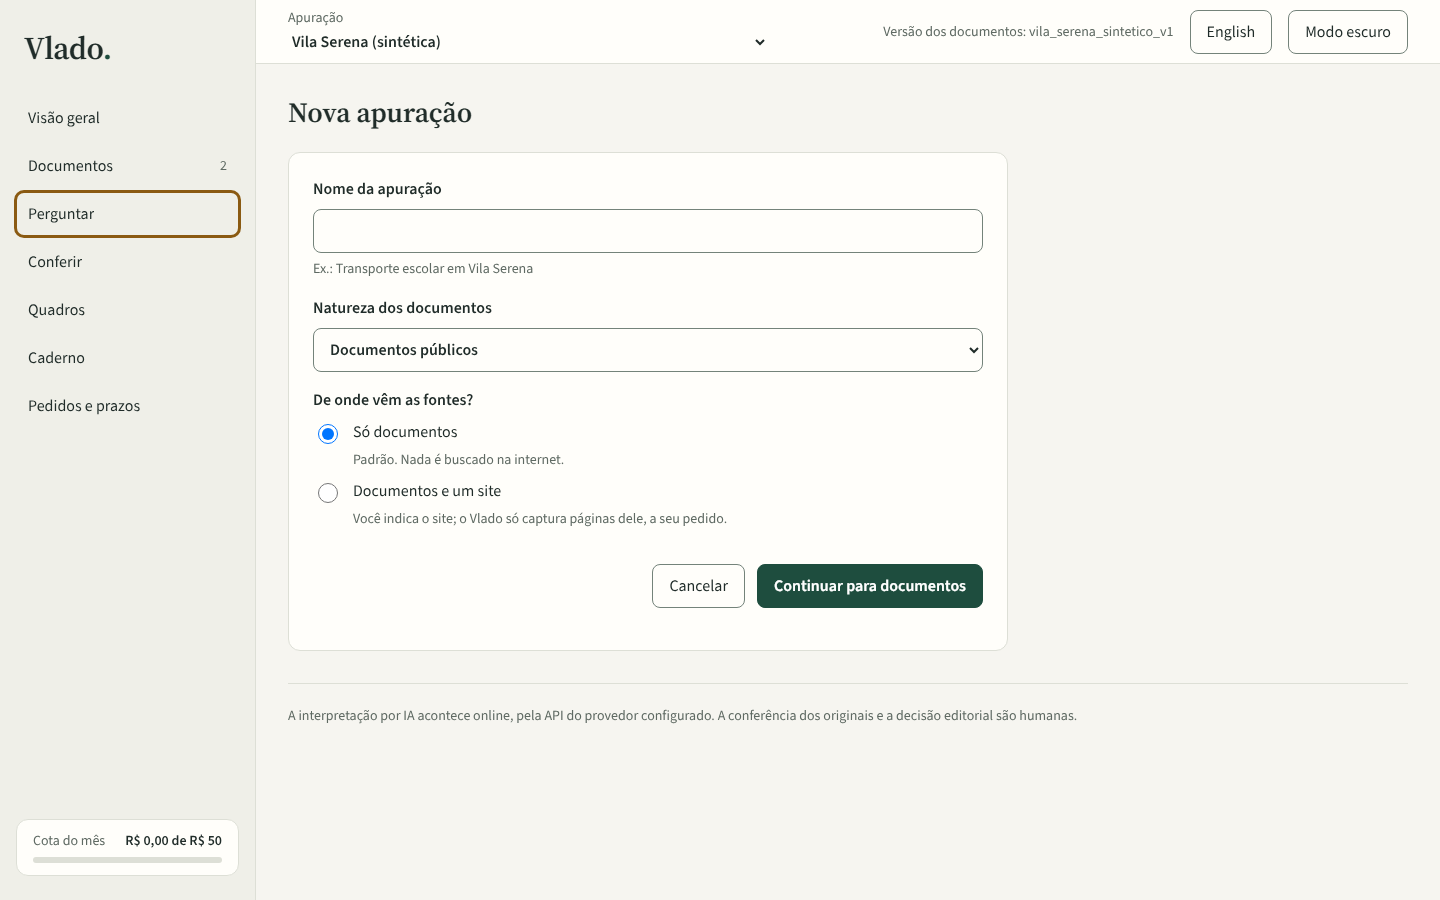
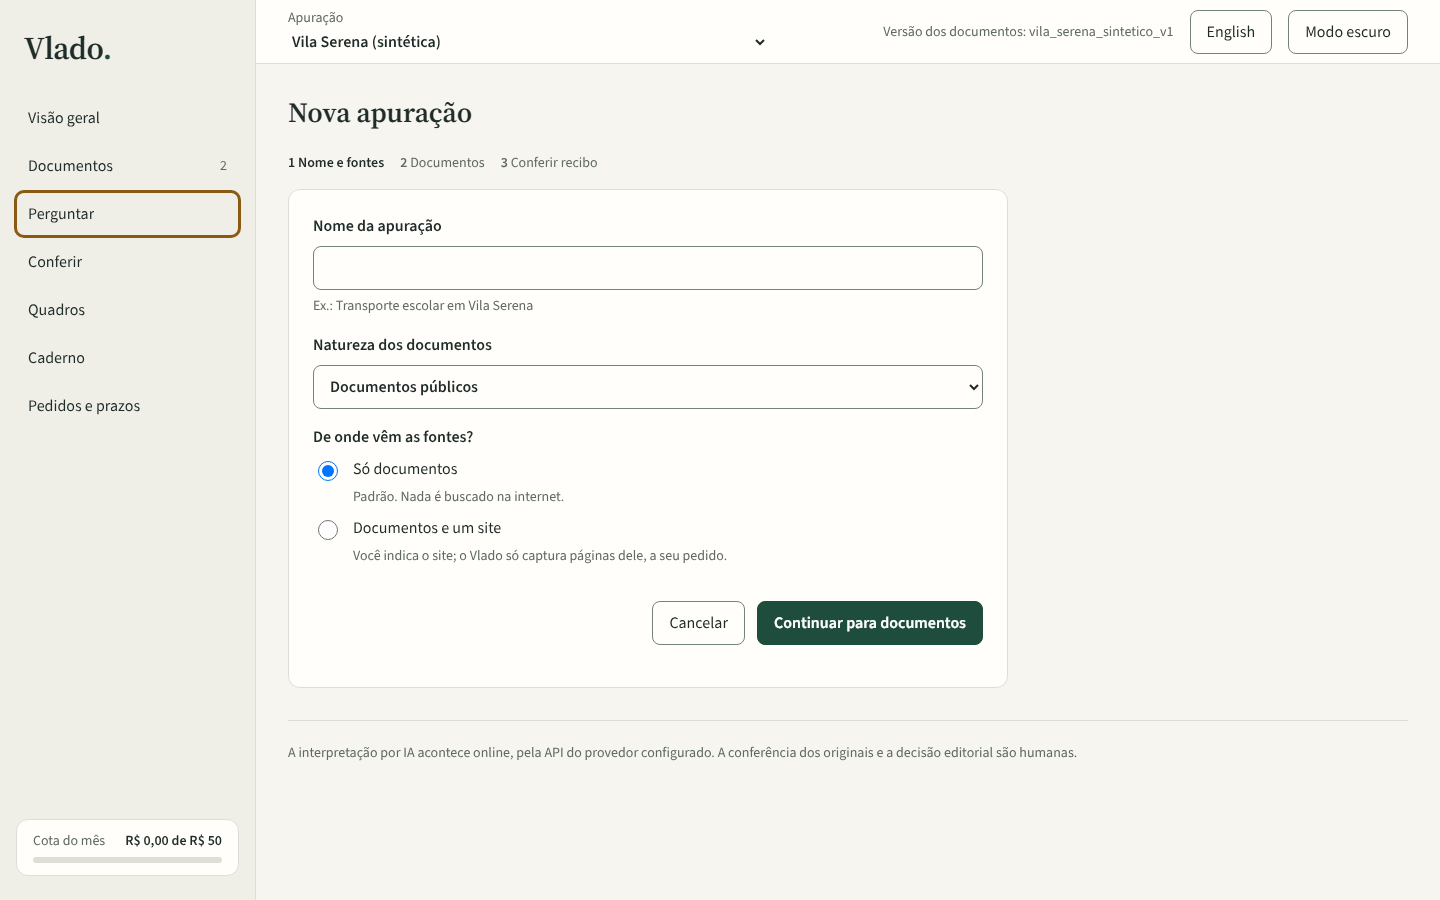
test: regera as nova__* sobre o 06d478e e acrescenta o reflow a 320 px (WCAG 1.4.10) às extras (Q3, Q4 da Coruja)
Regeradas sobre a frontend-o3 em 06d478e, que desenha a linha de etapas em ?area=nova (o Traço recusara as 8 sem ela):
- 8 nova__* da linha de base e 6 nova__* das extras (paisagem, 430 px e 200%);
- 10 foco_mesa_*, o anel de foco na própria tela nova, que a linha de etapas também muda.
Pendências do LEIA-ME resolvidas (Q3).

Q4: cenário reflow320 nas extras (320 x 640 px em CSS, escala 1): 14 telas x 2 temas = 28 referências novas, o conjunto vai a 112 (19,2 MB).
Mesma regra: nenhuma rolagem horizontal (manifesto vazio nas 112, inclusive a 320 px). Testes leves atualizados (cenários e 112 nomes).

Conferido por captura independente: extras 112 de 112 dentro da tolerância, 0 rolagem horizontal nova; base nova e focos 18 de 18. 32 testes OK.
A aceitação visual é do Traço.

diff --git a/testes/regressao_visual_extras.py b/testes/regressao_visual_extras.py
@@ -1,4 +1,4 @@
-"""Capturas adicionais da regressão visual (Onda 3, R6 do Traço): celular deitado, 430 px e texto a 200%.
+"""Capturas adicionais da regressão visual (Onda 3, R6 do Traço): celular deitado, 430 px, texto a 200% e reflow a 320 px.
 
     python testes/regressao_visual_extras.py gerar      # refaz testes/referencias_visuais/<plataforma>_extras/
     python testes/regressao_visual_extras.py comparar   # captura de novo e compara; relatório em tmp/regressao_visual_extras/
@@ -13,6 +13,9 @@ Cenários (nome da captura: `<tela>__<cenário>__<tema>.png`):
   zoom200   página a 200%: janela de 1280 px com a página ampliada a 200%, ou seja, 640 px de largura em CSS com fator de escala 2 (a imagem sai
             com 1280 px). É o "redimensionar texto até 200%" da WCAG 1.4.4 como o navegador o faz. A CSP da Mesa não deixa injetar CSS para ampliar só a fonte,
             e esta é a forma que a pessoa de verdade usa (Ctrl +).
+
+  reflow320 320 x 640 px: o reflow da WCAG 1.4.10 (o conteúdo cabe em 320 px de largura em CSS, equivalente a 1280 px a 400%, sem rolagem em duas direções).
+            A regra é a mesma dos outros cenários: nenhuma rolagem horizontal.
 
 Rolagem horizontal (a página mais larga que a janela) NÃO reprova a geração: entra no manifesto (`rolagem_horizontal`) e é avisada. No `comparar`, só
 reprova rolagem horizontal que a referência não tinha, além das diferenças de imagem e de qualquer pedido a endereço externo.
@@ -38,6 +41,7 @@ CENARIOS = {
     'paisagem': {'viewport': {'width': 812, 'height': 375}, 'escala': 1},
     '430': {'viewport': {'width': 430, 'height': 932}, 'escala': 1},
     'zoom200': {'viewport': {'width': 640, 'height': 450}, 'escala': 2},
+    'reflow320': {'viewport': {'width': 320, 'height': 640}, 'escala': 1},
 }
 TELAS = tuple(rv.TELAS) + tuple(rv.VARIANTES) + (rv.TELA_ENTRAR,)
 
@@ -261,7 +265,7 @@ def main(argv=None) -> int:
     parser = argparse.ArgumentParser(description=__doc__, formatter_class=argparse.RawDescriptionHelpFormatter)
     parser.add_argument('comando', choices=('gerar', 'comparar'))
     parser.add_argument('--telas', help='lista separada por vírgula (padrão: as 14 da linha de base, sem os focos)')
-    parser.add_argument('--cenarios', help='paisagem,430,zoom200 (padrão: os três)')
+    parser.add_argument('--cenarios', help='paisagem,430,zoom200,reflow320 (padrão: os quatro)')
     parser.add_argument('--temas', help='claro,escuro (padrão: ambos)')
     parser.add_argument('--python-servidor', help='Python do projeto (padrão: .venv do projeto)')
     parser.add_argument('--relatorio', help='pasta do relatório de `comparar` (padrão: tmp/regressao_visual_extras)')

diff --git a/testes/test_regressao_visual_extras.py b/testes/test_regressao_visual_extras.py
@@ -12,9 +12,12 @@ import regressao_visual_extras as ex
 
 class ExtrasTest(unittest.TestCase):
     def test_cenarios_pedidos_pelo_design(self):
-        self.assertEqual(set(ex.CENARIOS), {'paisagem', '430', 'zoom200'})
+        self.assertEqual(set(ex.CENARIOS), {'paisagem', '430', 'zoom200', 'reflow320'})
         self.assertEqual(ex.CENARIOS['paisagem']['viewport'], {'width': 812, 'height': 375})
         self.assertEqual(ex.CENARIOS['430']['viewport']['width'], 430)
+        # reflow (WCAG 1.4.10): 320 px de largura em CSS, sem ampliar
+        self.assertEqual(ex.CENARIOS['reflow320']['viewport']['width'], 320)
+        self.assertEqual(ex.CENARIOS['reflow320']['escala'], 1)
         # 200%: 640 px de largura em CSS com fator 2 = a janela de 1280 px ampliada a 200%
         self.assertEqual(ex.CENARIOS['zoom200']['viewport']['width'] * ex.CENARIOS['zoom200']['escala'], 1280)
 
@@ -24,9 +27,9 @@ class ExtrasTest(unittest.TestCase):
         self.assertIn('nova', ex.TELAS)
         self.assertNotIn('cadastro', ex.TELAS)
 
-    def test_84_capturas_no_conjunto_completo(self):
+    def test_112_capturas_no_conjunto_completo(self):
         nomes = ex.nomes_esperados(ex.TELAS, list(ex.CENARIOS), list(rv.TEMAS))
-        self.assertEqual(len(nomes), 14 * 3 * 2)
+        self.assertEqual(len(nomes), 14 * 4 * 2)
         self.assertEqual(len(set(nomes)), len(nomes))
         self.assertIn('inicio__paisagem__claro', nomes)
 
@@ -42,7 +45,7 @@ class ExtrasTest(unittest.TestCase):
 
 
 class ReferenciasExtrasTest(unittest.TestCase):
-    """As 84 referências versionadas conferem com o manifesto, têm a largura do cenário e nenhuma é uma página em branco."""
+    """As 112 referências versionadas conferem com o manifesto, têm a largura do cenário e nenhuma é uma página em branco."""
 
     def setUp(self):
         self.pasta = ex.pasta_extras()

diff --git a/testes/referencias_visuais/LEIA-ME.md b/testes/referencias_visuais/LEIA-ME.md
@@ -139,9 +139,9 @@ não a cada commit, e usar recorte (`--telas`, `--larguras`, `--temas`) para tro
 - A área `apuracao` registra no console um bloqueio da CSP (`style-src 'self'`): estilo inline aplicado por script.
   Fica no manifesto (`erros_do_navegador`); `comparar` avisa se aparecer erro novo.
 
-## Capturas adicionais (R6 do Traço): paisagem, 430 px e texto a 200%
+## Capturas adicionais (R6 do Traço): paisagem, 430 px, texto a 200% e reflow a 320 px
 
-`python testes/regressao_visual_extras.py gerar` refaz, e `comparar` confere, 84 capturas em `windows_extras/` (14 telas, sem os focos, nos
+`python testes/regressao_visual_extras.py gerar` refaz, e `comparar` confere, 112 capturas em `windows_extras/` (14 telas, sem os focos, nos
 dois temas; nome `<tela>__<cenário>__<tema>.png`). São referências ADICIONAIS: as 130 de cima não mudam. Cenários:
 
 | Cenário | Janela | Para quê |
@@ -149,15 +149,14 @@ dois temas; nome `<tela>__<cenário>__<tema>.png`). São referências ADICIONAIS
 | `paisagem` | 812 x 375 px | celular deitado: cabeçalho, gaveta e diálogos com altura curta |
 | `430` | 430 x 932 px | celular grande em pé, entre os 375 e os 768 da linha de base |
 | `zoom200` | 640 px em CSS, escala 2 (imagem de 1280 px) | a janela de 1280 px com a página ampliada a 200% (WCAG 1.4.4) |
+| `reflow320` | 320 x 640 px | o reflow da WCAG 1.4.10: o conteúdo cabe em 320 px de largura em CSS, sem rolagem horizontal |
 
 O `zoom200` é a página ampliada, não só a fonte: a CSP da Mesa não deixa injetar CSS para aumentar o texto sozinho, e Ctrl + é como a pessoa de verdade
-faz. Rolagem horizontal não impede gerar: fica no manifesto (`rolagem_horizontal`, hoje vazio nas 84) e `comparar` reprova a que for nova, além de diferença
+faz. Rolagem horizontal não impede gerar: fica no manifesto (`rolagem_horizontal`, hoje vazio nas 112) e `comparar` reprova a que for nova, além de diferença
 de imagem e de pedido a endereço externo. O Vditor do Caderno registra um aviso de CSP (estilo em linha) no manifesto, como na linha de base. Os testes sem
 navegador estão em `test_regressao_visual_extras.py`.
 
-## Pendentes (não valem como aceitas)
+## Pendentes
 
-As 14 capturas `nova__*` ficam **pendentes** até serem regeradas: 8 na linha de base (`nova__375|768|1024|1440__claro|escuro`) e 6 nas extras
-(`nova__paisagem|430|zoom200__claro|escuro`). O Traço as recusou porque `?area=nova` abre o passo 1 sem a linha de etapas ("1 Nome e fontes, 2 Documentos,
-3 Conferir recibo"). **Dono: Lume** (a correção é da tela). **Motivo: linha de etapas ausente.** Quem regera é a Sonda, depois da correção, numa só janela com as
-demais capturas novas. Até lá essas 14 guardam o estado recusado, só para o comparador ter o que comparar; nenhuma delas é prova de que a tela está certa.
+Nenhuma. As 14 `nova__*` (8 da linha de base e 6 das extras), que o Traço recusara por faltar a linha de etapas em `?area=nova`, foram regeradas sobre o 06d478e
+do Lume, que a desenha ("1 Nome e fontes · 2 Documentos · 3 Conferir recibo"; no celular, "Passo 1 de 3 · Nome e fontes"). Os 10 `foco_mesa_*` (anel de foco na própria tela `nova`) foram regerados junto, porque a linha de etapas muda a página. A aceitação visual segue sendo do Traço.
